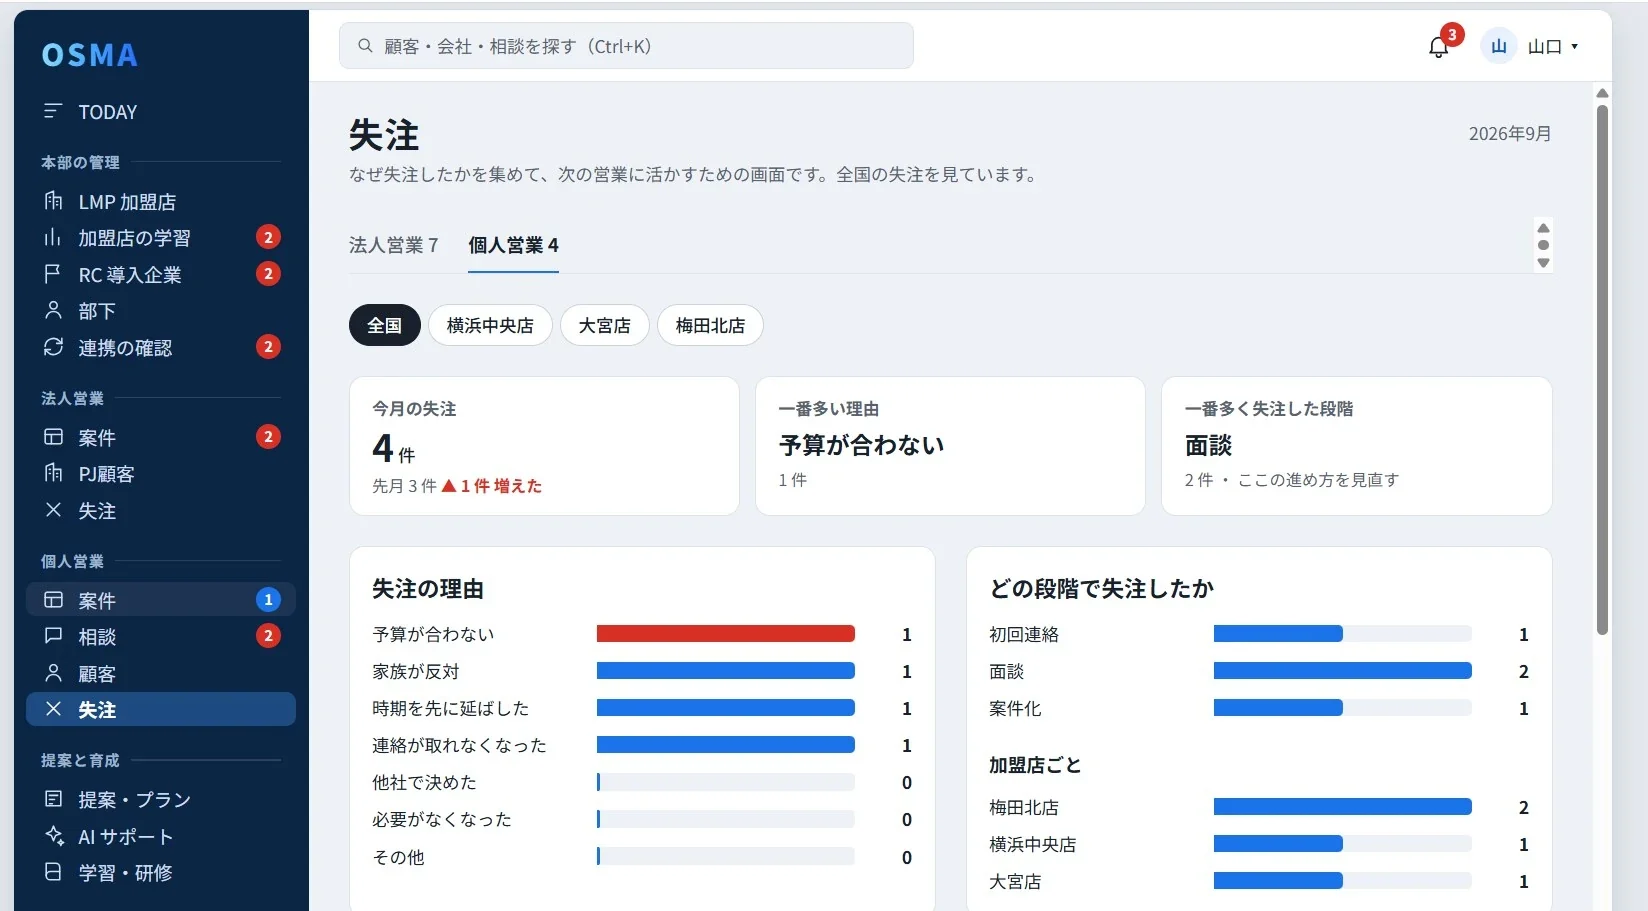
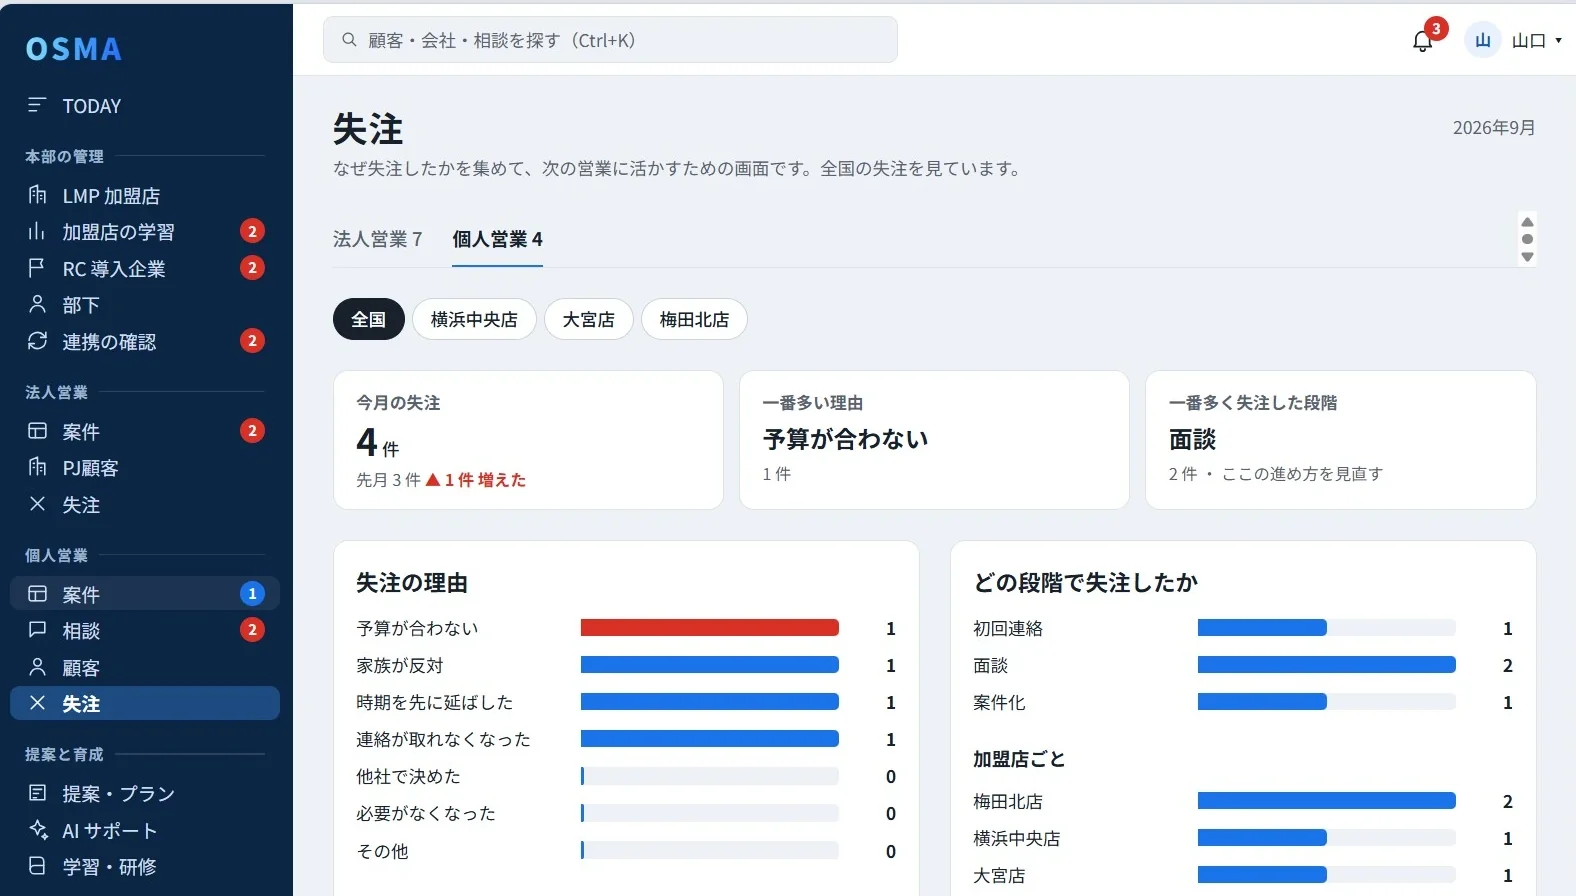
OSMAの画面から余計な枠を外す
- 画像のウィンドウ枠とスクロールバーを切り落とし 1648x911 → 1576x896
- 偽のブラウザ枠（3つの丸のバー）を外し、画像だけを影付きで見せる

diff --git a/index.html b/index.html
@@ -133,9 +133,9 @@ ul,ol{margin:0;padding:0;list-style:none}
 .shot-bar i{width:9px;height:9px;border-radius:50%;background:#2e5648}
 .shot-body{aspect-ratio:16/10;display:grid;place-content:center;gap:6px;text-align:center;padding:20px;
   background:radial-gradient(120% 90% at 50% 0%,#153d32 0%,#0b1f18 70%)}
-/* 実画面が入ったら、画像そのものの縦横比で見せる */
-.shot-body.has-img{aspect-ratio:auto;padding:0;background:#0b1f18}
-.shot-body.has-img img{width:100%;height:auto}
+/* 実画面が入ったら、偽のブラウザ枠はやめて画像だけを見せる */
+.shot.plain{background:transparent;border:0;box-shadow:0 12px 34px rgba(0,0,0,.3)}
+.shot.plain img{width:100%;height:auto}
 .shot-body b{color:var(--gold-soft);font-size:15px;letter-spacing:.08em}
 .shot-body span{color:#7d968a;font-size:12px}
 .shot-side{display:grid;gap:12px}
@@ -546,11 +546,8 @@ tbody tr:last-child th,tbody tr:last-child td{border-bottom:0}
     <h2 data-r><span class="bb">一人で</span><span class="bb">売る</span><span class="bb">事業ではありません。</span></h2>
     <p class="lead" data-r><span class="bb">商品説明、</span><span class="bb">導入手順、</span><span class="bb">提案資料、</span><span class="bb">運用設計を</span><span class="bb">支援します。</span><span class="bb">条件が</span><span class="bb">曖昧なまま</span><span class="bb">約束せず、</span><span class="bb">案件ごとに</span><span class="bb">確認して</span><span class="bb">進めます。</span></p>
     <div class="support">
-      <div class="shot" data-r>
-        <div class="shot-bar"><i></i><i></i><i></i></div>
-        <div class="shot-body has-img">
-          <img src="assets/osma.webp" alt="OSMAの画面（失注の理由と段階の集計）" width="1648" height="911" loading="lazy" decoding="async">
-        </div>
+      <div class="shot plain" data-r>
+        <img src="assets/osma.webp" alt="OSMAの画面（失注の理由と段階の集計）" width="1576" height="896" loading="lazy" decoding="async">
       </div>
       <ul class="kitlist">
         <li data-r><span class="bb">商品説明</span></li>
